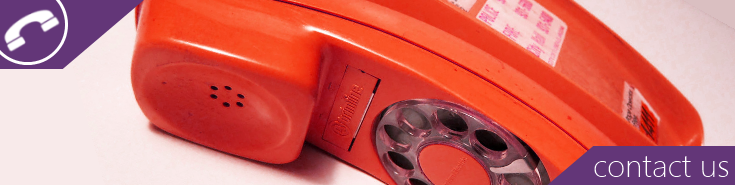
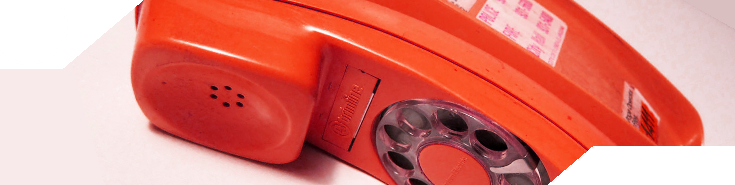
Added back ground, fixed buttons, made button effects pretty.

Changed region(s): [[0.0, 0.0, 0.2095, 0.3784], [0.7483, 0.7838, 1.0, 1.0]]

diff --git a/ECE_Showcase/Screens/HomeScreen.xaml b/ECE_Showcase/Screens/HomeScreen.xaml
@@ -9,8 +9,7 @@
              d:DesignHeight="1080"
              d:DesignWidth="1920">
 
-    <Grid Background="White"
-          Margin="200 150">
+    <Grid>
         
         <Grid.Resources>
             <Style TargetType="s:SurfaceButton">
@@ -20,8 +19,8 @@
                                           ShadowDepth="1.0"/>
                     </Setter.Value>
                 </Setter>-->
-                <Setter Property="Margin"
-                        Value="5px" />
+                <Setter Property="Padding"
+                        Value="4px" />
                 <Setter Property="Background"
                         Value="Transparent" />
                 <Setter Property="FontSize"
@@ -33,106 +32,134 @@
             </Style>
             
         </Grid.Resources>
-
+        
         <Grid.RowDefinitions>
+            <RowDefinition Height="150px" />
             <RowDefinition Height="195px" />
             <RowDefinition Height="195px" />
             <RowDefinition Height="195px" />
             <RowDefinition Height="195px" />
+            <RowDefinition Height="150px" />
         </Grid.RowDefinitions>
 
         <Grid.ColumnDefinitions>
+            <ColumnDefinition Width="200px" />
             <ColumnDefinition Width="745px" />
-            <ColumnDefinition Width="745" />
+            <ColumnDefinition/>
+            <ColumnDefinition Width="745px" />
+            <ColumnDefinition Width="200px" />
+            
         </Grid.ColumnDefinitions>
-
+        <Image Source="/ECE_Showcase;component/Resources/bg.png"
+        		         Grid.Row="0"
+                         Grid.RowSpan="6"
+                         Grid.Column="0"
+                         Grid.ColumnSpan="5"	
+                    VerticalAlignment="Center"
+        			HorizontalAlignment="Center" Height="1080" Width="1920" />
         <Label Name="Title"
-                         Margin="-205,-170,-203,0"
-                         Grid.ColumnSpan="4"
-                         Background="White"
+                         Grid.Row="0"
+                         Grid.Column="0"
+                         Grid.ColumnSpan="5"
+                         Margin = "0 -30 0 0"
+                         Background="{x:Null}"
                          Foreground="#BCBCBC"
                          FontSize="115"
                          FontFamily="Segoe UI Light"
                          VerticalContentAlignment="Top">
-            electrical and computer engineering</Label>
+            electrical and computer engineering
+        </Label>
 
         <s:SurfaceButton Name="InfoButton"
                          Click="InfoButton_Click"
-                         Grid.Row="0"
-                         Grid.Column="0"
+                         Grid.Row="1"
+                         Grid.Column="1"
                          Grid.ColumnSpan="1"
-                         Margin="0"
                          VerticalContentAlignment="Stretch"
                          HorizontalContentAlignment="Stretch"
-                         Padding="0">
-            <Image Source="/ECE_Showcase;component/Resources/info.png"
-                   VerticalAlignment="Stretch"
-                   HorizontalAlignment="Stretch" />
+                         Background="#633678" Padding="0" Margin="0" Width="735" Height="185">
+            <StackPanel>
+        		<Image Source="/ECE_Showcase;component/Resources/info.png"
+        			VerticalAlignment="Center"
+        			HorizontalAlignment="Center" Height="185" Width="735" />
+        		<TextBlock TextWrapping="Wrap" Height="45" RenderTransformOrigin="0.5,0.5" Margin="0,-43,0,0" FontSize="32" Text="information" HorizontalAlignment="Right" Width="159"/>
+        	</StackPanel>
         </s:SurfaceButton>
 
         <s:SurfaceButton Name="HODButton"
                          Click="HODButton_Click"
-                         Grid.Row="1"
-                         Grid.Column="0"
+                         Grid.Row="2"
+                         Grid.Column="1"
                          Grid.ColumnSpan="1"
-                         Margin="0"
                          VerticalContentAlignment="Stretch"
                          HorizontalContentAlignment="Stretch"
-                         Padding="0" >
-            <Image Source="/ECE_Showcase;component/Resources/HOD.png"
-                   VerticalAlignment="Stretch"
-                   HorizontalAlignment="Stretch" />
+                         Background="#633678" Margin="0" Padding="0" Width="735" Height="185" BorderThickness="0" ClipToBounds="True">
+            <StackPanel>
+        		<Image Source="/ECE_Showcase;component/Resources/HOD.png"
+        			VerticalAlignment="Center"
+        			HorizontalAlignment="Center" Width="735" Height="185" />
+        		<TextBlock TextWrapping="Wrap" Height="45" RenderTransformOrigin="0.5,0.5" Margin="313,-45,0,0" FontSize="32"><Run Language="en-nz" Text="head of department's welcome"/></TextBlock>
+        	</StackPanel>
         </s:SurfaceButton>
 
         <s:SurfaceButton Name="ProgrammesButton"
-                         Grid.Row="2"
-                         Grid.Column="0"
+                         Grid.Row="3"
+                         Grid.Column="1"
                          Grid.ColumnSpan="1"
                          Click="courses_button_click"
-                         Margin="0"
                          VerticalContentAlignment="Stretch"
                          HorizontalContentAlignment="Stretch"
-                         Padding="0">
-            <Image Source="/ECE_Showcase;component/Resources/programmes.png"
-                   VerticalAlignment="Stretch"
-                   HorizontalAlignment="Stretch" />
+                         Background="#633678" Padding="0" Margin="0" Width="735" Height="185">
+            <StackPanel>
+        		<Image Source="/ECE_Showcase;component/Resources/programmes.png"
+        			VerticalAlignment="Center"
+        			HorizontalAlignment="Center" Height="185" Width="735" />
+        		<TextBlock TextWrapping="Wrap" Height="45" RenderTransformOrigin="0.5,0.5" Margin="0,-45,0,0" FontSize="32" Text="programmes" HorizontalAlignment="Right" Width="177"/>
+        	</StackPanel>
         </s:SurfaceButton>
         
         <s:SurfaceButton Name="ContactButton"
-                         Grid.Column="0"
-                         Grid.Row="3"
+                         Grid.Row="4"
+                         Grid.Column="1"
                          Grid.ColumnSpan="1"
-                         Margin="0"
                          VerticalContentAlignment="Stretch"
                          HorizontalContentAlignment="Stretch"
-                         Padding="0">
-            <Image Source="/ECE_Showcase;component/Resources/contact.png"
-                   VerticalAlignment="Stretch"
-                   HorizontalAlignment="Stretch" />
+                         Background="#633678" Margin="0" Padding="0" Width="735" Height="185">
+            <StackPanel>
+        		<Image Source="/ECE_Showcase;component/Resources/contact.png"
+        			VerticalAlignment="Center"
+        			HorizontalAlignment="Center" Height="185" Width="735" />
+        		<TextBlock TextWrapping="Wrap" Height="45" RenderTransformOrigin="0.5,0.5" Margin="0,-43,0,0" FontSize="32" Text="contact us" HorizontalAlignment="Right" Width="141.5"/>
+        	</StackPanel>
         </s:SurfaceButton>
         
         <s:SurfaceButton  Name="RNDButton"
+                          Grid.Row="1"
                           Grid.RowSpan="2"
-                          Grid.Column="2"
-                          Grid.ColumnSpan="2"
+                          Grid.Column="3"
+                          Grid.ColumnSpan="1"
                           Click="SurfaceButton_Click"
-                          Margin="0"
                           VerticalContentAlignment="Stretch"
                           HorizontalContentAlignment="Stretch"
-                          Padding="0">
-            <Image Source="/ECE_Showcase;component/Resources/rnd.png"
-                   VerticalAlignment="Stretch"
-                   HorizontalAlignment="Stretch" />
+                          Background="#633678" Padding="0" Margin="0" Width="735" Height="380">
+            <StackPanel>
+        		<Image Source="/ECE_Showcase;component/Resources/rnd.png"
+        			VerticalAlignment="Center"
+        			HorizontalAlignment="Center" Height="380" Width="735" />
+        		<TextBlock TextWrapping="Wrap" Height="45" RenderTransformOrigin="0.5,0.5" Margin="0,-43,0,0" FontSize="32" Text="projects and research" HorizontalAlignment="Right" Width="290"/>
+        	</StackPanel>
         </s:SurfaceButton>
         
-        <s:SurfaceButton Grid.Column="2"
-                         Grid.Row="2"
+        <s:SurfaceButton 
+                         Grid.Row="3"
                          Grid.RowSpan="2"
-                         Grid.ColumnSpan="2"
-                         Margin="0"
+                         Grid.Column="3"
+                         Grid.ColumnSpan="1"
+                         Width="735px"
+                         Height="380px"
                          VerticalContentAlignment="Stretch"
                          HorizontalContentAlignment="Stretch"
-                         Padding="0"
+
                          Background="#633678">
             News Feed
         </s:SurfaceButton>
@@ -145,6 +172,6 @@
                 Name="border1"
                 VerticalAlignment="Top"
                 Width="70" />
-        
+
     </Grid>
 </view:Screen>
